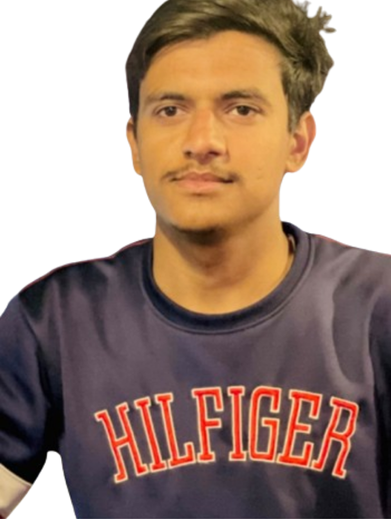
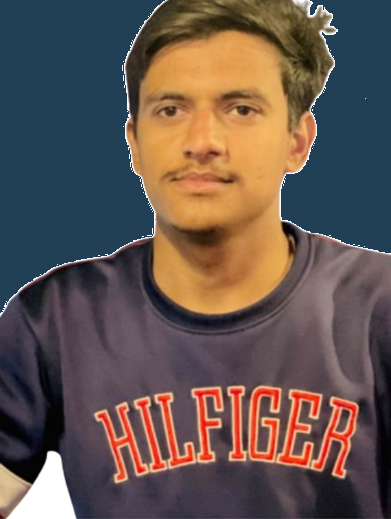
Added new Picture and Change Some CSS

Changed region(s): [[0.0, 0.0, 0.4297, 0.6166], [0.7059, 0.0, 1.0, 0.4933]]

diff --git a/index.html b/index.html
@@ -29,6 +29,8 @@
     <header>
         <h1 style="color: brown;">Welcome to My Profile</h1>
         <p>I'm <a href="https://www.linkedin.com/in/muhammad-rehman-196bb5263?utm_source=share&utm_campaign=share_via&utm_content=profile&utm_medium=android_app" class="intro">Muhammad Rehman</a> a passionate <span class="intro1">Web Developer</span> and <span class="intro1">Software Engineer</span>.</br> Here you will See all about me.</p>
+        <img src="images/MyDp.png" alt="myDP">
+        <p style="color: aquamarine;"></br>Please Watch Below Video to see more about me in details</p>
         <video controls style="width: 80%; height: 80%">
             <source  src="video.mp4" type="video/mp4">
             Your browser does not support the video tag.

diff --git a/style.css b/style.css
@@ -77,7 +77,7 @@ nav .logo .image {
 header {
     text-align: center;
     padding: 50px 0;
-    background-color: #2c3e50; 
+    background-color: #1d4166; 
     color: white;
 }
 
@@ -199,6 +199,7 @@ footer {
 }
 
 @media screen and (max-width: 768px) {
+
     .nav-links {
         display: none;
         flex-direction: column;
